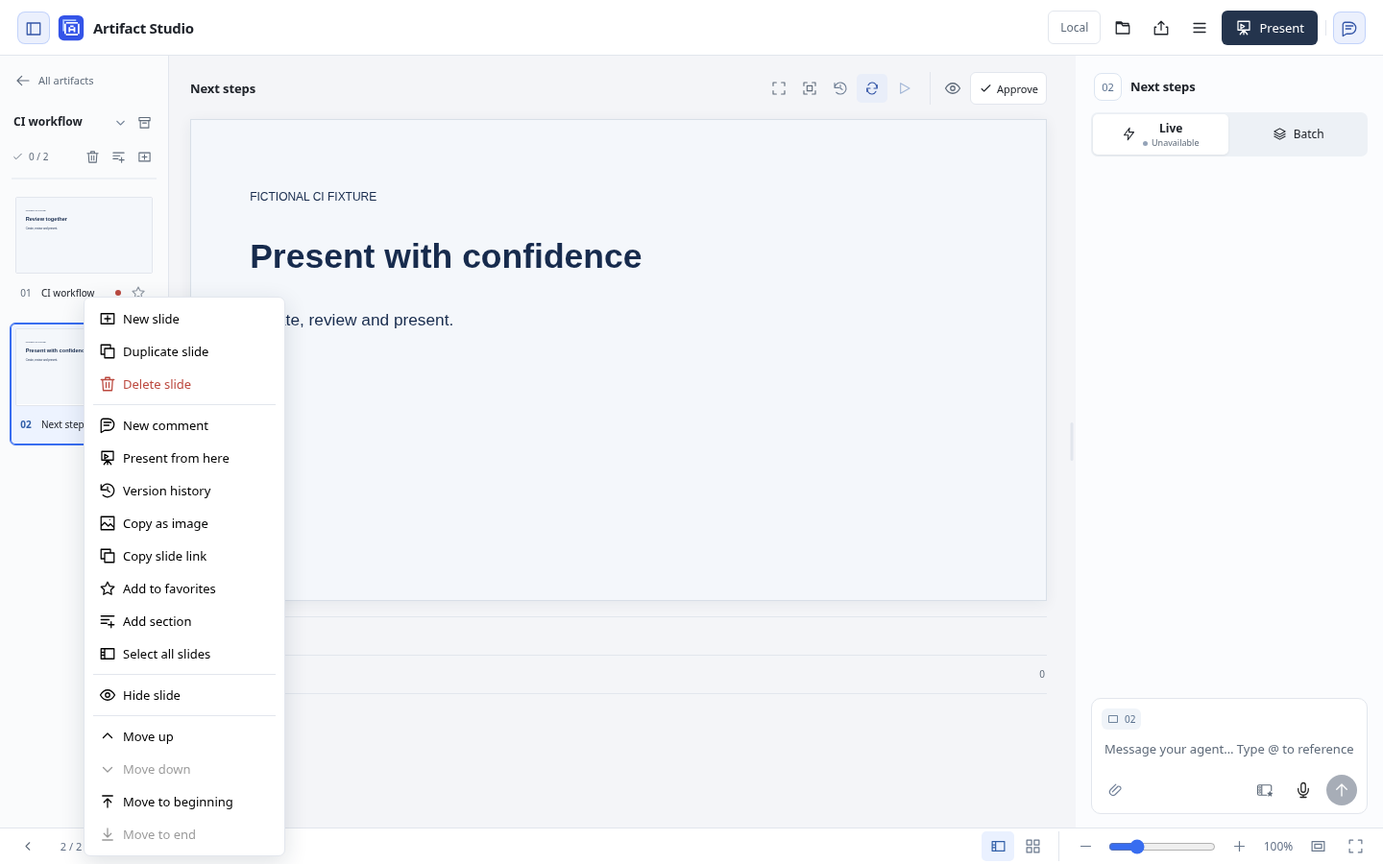
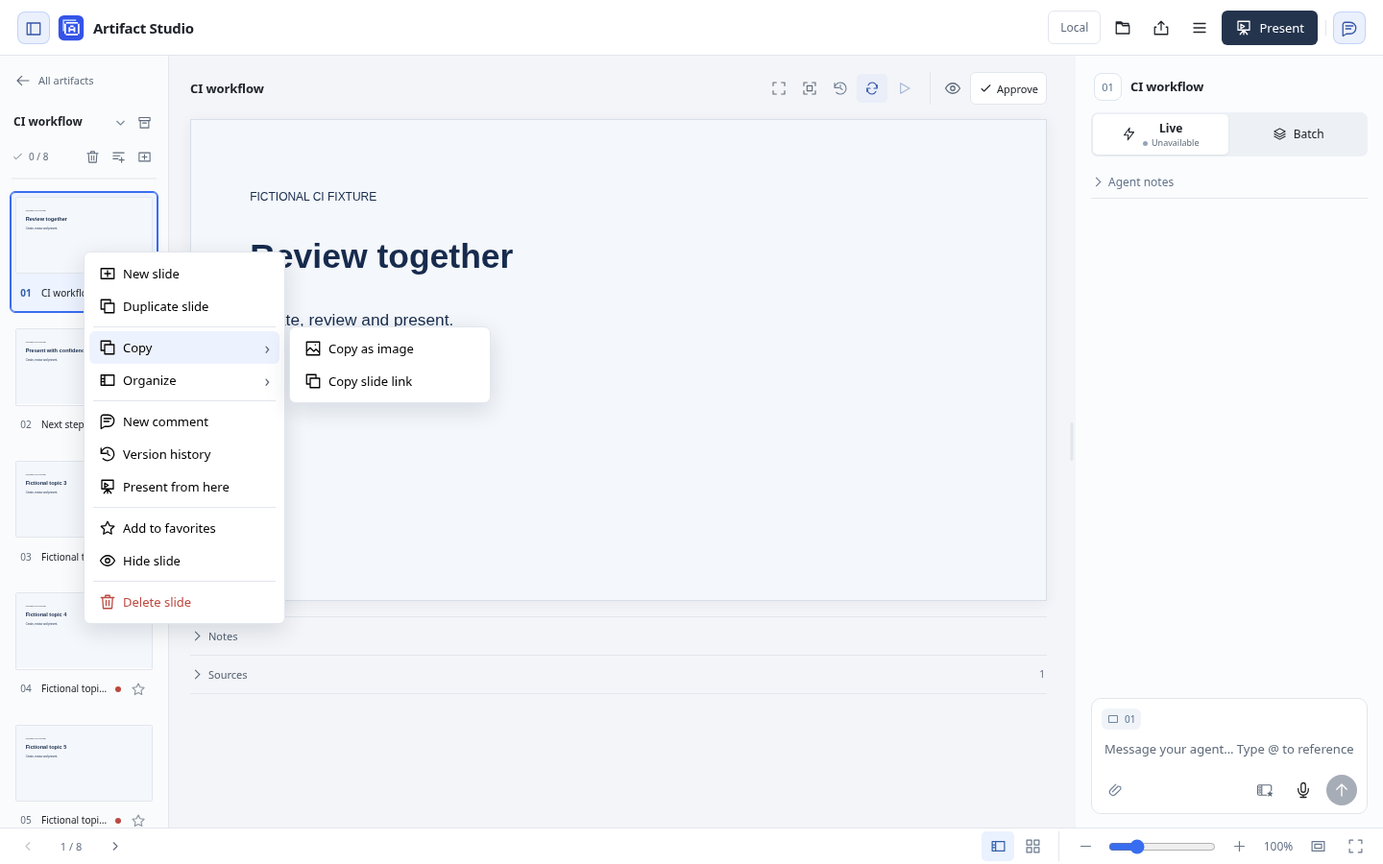
feat(menus): group slide actions into accessible submenus

diff --git a/web/app.js b/web/app.js
@@ -348,7 +348,7 @@
     doc.addEventListener('keydown',event=>{if(document.body.classList.contains('workspace-clean-view') && event.key==='Escape'){event.preventDefault();event.stopImmediatePropagation();workspacePanels.exitView();}},true);
     if(bindEvents){
       doc.addEventListener('keydown',elementKey,true);workspaceMenu?.bindDocument(doc);
-      doc.addEventListener('pointerdown',()=>{elementMenu.close();canvasMenu.close();if($('slide-menu').matches(':popover-open'))$('slide-menu').hidePopover();},true);
+      doc.addEventListener('pointerdown',()=>{elementMenu.close();canvasMenu.close();if($('slide-menu').matches(':popover-open'))slideMenu.close();},true);
       doc.addEventListener('contextmenu',async event=>{
         if(document.body.classList.contains('workspace-clean-view')||window.ElementCommands.typing(event.target)||feedbackSending||elementEditor.isBusy())return;
         const target=event.target.closest('svg')?.classList.contains('icon')?event.target.closest('svg'):event.target;
@@ -640,16 +640,18 @@
     catch(error){toast(error.message,true);}
     finally{visibilityBusy=false;orderEpoch++;updateComposer();renderVisibility();renderRail();$('toggle-slide-hidden').disabled=false;void refresh();}
   }
+  const slideMenu=window.SlideMenu.create({menu:$('slide-menu'),returnFocus:()=>menuSlide?.deckId===deck?.id?$('slides').querySelector(`[data-id="${CSS.escape(menuSlide.id)}"]`):null});
+  for(const control of $('slide-menu').querySelectorAll('[data-slide-submenu]')){const copy=control.dataset.slideSubmenu==='copy';iconButton(control,copy?'copy':'slides',copy?'Copy':'Organize',true);control.insertAdjacentHTML('beforeend','<span class="slide-submenu-arrow" aria-hidden="true">›</span>');}
   async function openSlideMenu(id,point){
     if(visibilityBusy||slideOrder.isBusy()||slideActions.isBusy())return;
-    const menu=$('slide-menu'),button=$('toggle-slide-hidden'),count=slideOrder.selection().length,selection=$('slide-menu-selection');selection.hidden=count<2;selection.innerHTML=svg('slides')+`<span>${count} selected</span>`;selection.setAttribute('aria-label',`${count} slides selected`);menuSlide={deckId:deck.id,id,contentHash:slide().content_hash};const hide=(pendingDeck||deck).slides.some(item=>slideOrder.selection().includes(item.id)&&!item.hidden);iconButton(button,hide?'eye':'eyeOff',`${hide?'Hide':'Unhide'} ${count>1?'selected slides':'slide'}`,true);for(const control of menu.querySelectorAll('[data-slide-action]')){const action=control.dataset.slideAction;iconButton(control,{add:'slideAdd',duplicate:'copy',delete:'trash'}[action],{add:'New slide',duplicate:count>1?'Duplicate slides':'Duplicate slide',delete:count>1?'Delete slides':'Delete slide'}[action],true);control.disabled=action==='delete'?count===(pendingDeck||deck).slides.length:action==='add'?(pendingDeck||deck).slides.length>=100:(pendingDeck||deck).slides.length+count>100;}menu.showPopover();
+    const menu=$('slide-menu'),button=$('toggle-slide-hidden'),count=slideOrder.selection().length,selection=$('slide-menu-selection');selection.hidden=count<2;selection.innerHTML=svg('slides')+`<span>${count} selected</span>`;selection.setAttribute('aria-label',`${count} slides selected`);menuSlide={deckId:deck.id,id,contentHash:slide().content_hash};const hide=(pendingDeck||deck).slides.some(item=>slideOrder.selection().includes(item.id)&&!item.hidden);iconButton(button,hide?'eye':'eyeOff',`${hide?'Hide':'Unhide'} ${count>1?'selected slides':'slide'}`,true);for(const control of menu.querySelectorAll('[data-slide-action]')){const action=control.dataset.slideAction;iconButton(control,{add:'slideAdd',duplicate:'copy',delete:'trash'}[action],{add:'New slide',duplicate:count>1?'Duplicate slides':'Duplicate slide',delete:count>1?'Delete slides':'Delete slide'}[action],true);control.disabled=action==='delete'?count===(pendingDeck||deck).slides.length:action==='add'?(pendingDeck||deck).slides.length>=100:(pendingDeck||deck).slides.length+count>100;}
     for(const control of menu.querySelectorAll('[data-slide-extra]')){const action=control.dataset.slideExtra;iconButton(control,({comment:'chat',present:'present',history:'history',copyimage:'image',copylink:'copy',favorite:'star',section:'sectionAdd',selectall:'slides'})[action],({comment:'New comment',present:'Present from here',history:'Version history',copyimage:'Copy as image',copylink:'Copy slide link',favorite:window.FavoriteSlides.actionLabel(window.FavoriteSlides.has('slide',deck.id,id)),section:'Add section',selectall:'Select all slides'})[action],true);control.disabled=(action==='history'||action==='copyimage')&&count>1||action==='copyimage'&&copyingSlideImage;}
     for(const control of menu.querySelectorAll('[data-slide-move]')){const action=control.dataset.slideMove;iconButton(control,action,{up:'Move up',down:'Move down',first:'Move to beginning',last:'Move to end'}[action],true);control.disabled=!slideOrder.canMove(action);}
-    const anchor=$('slides').querySelector(`[data-id="${CSS.escape(id)}"]`).getBoundingClientRect(),rect=menu.getBoundingClientRect();menu.style.left=`${Math.max(8,Math.min(point?.x??anchor.right-15,innerWidth-rect.width-8))}px`;menu.style.top=`${Math.max(8,Math.min(point?.y??anchor.top+12,innerHeight-rect.height-8))}px`;menu.querySelector('button:not(:disabled)')?.focus();
+    const anchor=$('slides').querySelector(`[data-id="${CSS.escape(id)}"]`).getBoundingClientRect();slideMenu.open({...point,anchor});
   }
   $('slide-menu').addEventListener('click',async event=>{
     const control=event.target.closest('[data-slide-extra]');if(!control||control.disabled||menuSlide?.deckId!==deck?.id)return;
-    const id=menuSlide.id;$('slide-menu').hidePopover();
+    const id=menuSlide.id;slideMenu.close();
     if(control.dataset.slideExtra==='copyimage'){
       if(copyingSlideImage)return;const context=menuSlide;copyingSlideImage=true;toast('Preparing slide image…');
       try{await window.ImageExport.copy(`/api/decks/${encodeURIComponent(context.deckId)}/slides/${encodeURIComponent(context.id)}/image`,{content_hash:context.contentHash});toast('Slide image copied.');}
@@ -675,9 +677,8 @@
   ]});}
   document.addEventListener('contextmenu',event=>{if(event.defaultPrevented||document.body.classList.contains('workspace-clean-view')||window.ElementCommands.typing(event.target))return;const blankRail=event.target.closest('#slides')&&!event.target.closest('[data-id],.section-header');if(blankRail||event.target.closest('#preview-wrap')&&!event.target.closest('button,input,textarea,#selection-box,#element-properties')){event.preventDefault();showCanvasMenu({x:event.clientX,y:event.clientY});}});
   $('hide-slide').addEventListener('click',()=>setHidden(selectedId));
-  $('toggle-slide-hidden').addEventListener('click',()=>{const target=menuSlide;$('slide-menu').hidePopover();if(target?.deckId===deck?.id)void setHidden(target.id,slideOrder.selection());});
-  $('slide-menu').addEventListener('click',event=>{const control=event.target.closest('[data-slide-move],[data-slide-action]');if(!control||control.disabled)return;$('slide-menu').hidePopover();if(control.dataset.slideAction)void slideActions.run(control.dataset.slideAction);else void slideOrder.move(control.dataset.slideMove);});
-  $('slide-menu').addEventListener('keydown',event=>{if(['ArrowDown','ArrowUp','Home','End'].includes(event.key)){event.preventDefault();const buttons=[...$('slide-menu').querySelectorAll('button:not(:disabled)')],index=buttons.indexOf(document.activeElement),next=event.key==='Home'?0:event.key==='End'?buttons.length-1:(index+(event.key==='ArrowDown'?1:-1)+buttons.length)%buttons.length;buttons[next]?.focus();}if(event.key==='Escape'){event.preventDefault();$('slide-menu').hidePopover();if(menuSlide?.deckId===deck?.id)$('slides').querySelector(`[data-id="${CSS.escape(menuSlide.id)}"]`)?.focus();}});
+  $('toggle-slide-hidden').addEventListener('click',()=>{const target=menuSlide;slideMenu.close();if(target?.deckId===deck?.id)void setHidden(target.id,slideOrder.selection());});
+  $('slide-menu').addEventListener('click',event=>{const control=event.target.closest('[data-slide-move],[data-slide-action]');if(!control||control.disabled)return;slideMenu.close();if(control.dataset.slideAction)void slideActions.run(control.dataset.slideAction);else void slideOrder.move(control.dataset.slideMove);});
   /** Choose a slide and restore any draft feedback attached to it. */
   async function choose(id){const request=++selectionEpoch,deckId=deck?.id;if(visibilityBusy||slideActions.isBusy()||slideDesignOptions?.isBusy()||elementAlternatives&&!await elementAlternatives.finish()||!await finishEdits()||request!==selectionEpoch||deck?.id!==deckId||!deck.slides.some(item=>item.id===id))return false;retainDraft();await voice?.stop();if(request!==selectionEpoch||deck?.id!==deckId)return false;void noteAutosave.flush(key());if(pendingDeck){deck=pendingDeck;pendingDeck=null;$('update-banner').hidden=true;}selectedId=id;slideSections?.reveal(id);renderRail();render();if(!sorter.isOpen())void markOpened();$('slides').querySelector('[aria-current="true"]')?.scrollIntoView({block:'nearest'});return true;}
   const slideOrder=window.SlideOrder.create({

diff --git a/web/slide-menu.js b/web/slide-menu.js
@@ -1,0 +1,75 @@
+/* One-level slide submenus, with inline expansion when a flyout cannot fit. */
+((root)=>{
+  'use strict';
+  function create({menu,returnFocus}){
+    const doc=menu.ownerDocument,view=doc.defaultView;
+    const branches=[...menu.querySelectorAll('[data-slide-submenu]')].map(trigger=>({trigger,panel:doc.getElementById(trigger.getAttribute('aria-controls'))}));
+    let active=null,hoverTimer=null,closeTimer=null;
+    const rows=panel=>[...panel.querySelectorAll('button:not(:disabled)')].filter(button=>button.closest('[role="menu"]')===panel&&button.getClientRects().length);
+    const clearTimers=()=>{view.clearTimeout(hoverTimer);view.clearTimeout(closeTimer);};
+    function closeBranch(focus=false){
+      clearTimers();if(!active)return;
+      const {trigger,panel}=active;active=null;
+      if(panel.matches(':popover-open'))panel.hidePopover();
+      panel.hidden=true;panel.classList.remove('is-inline');panel.setAttribute('popover','manual');trigger.setAttribute('aria-expanded','false');
+      if(focus){trigger.focus({preventScroll:true});trigger.scrollIntoView({block:'nearest'});}
+    }
+    function clamp(x,y){
+      menu.style.left=`${Math.max(8,Math.min(x,view.innerWidth-menu.offsetWidth-8))}px`;
+      menu.style.top=`${Math.max(8,Math.min(y,view.innerHeight-menu.offsetHeight-8))}px`;
+    }
+    function canFlyOut(){const rect=menu.getBoundingClientRect();return Math.max(rect.left-8,view.innerWidth-rect.right-8)>=rect.width+4;}
+    function showBranch(branch,focus=false){
+      clearTimers();if(branch.trigger.disabled||!menu.matches(':popover-open'))return;
+      if(active!==branch){
+        closeBranch();active=branch;
+        const {trigger,panel}=branch,rect=menu.getBoundingClientRect(),row=trigger.getBoundingClientRect();
+        panel.hidden=false;
+        if(canFlyOut()){
+          panel.showPopover({source:trigger});
+          const left=rect.right+panel.offsetWidth+4<=view.innerWidth-8?rect.right+4:rect.left-panel.offsetWidth-4;
+          panel.style.left=`${Math.max(8,Math.min(left,view.innerWidth-panel.offsetWidth-8))}px`;
+          panel.style.top=`${Math.max(8,Math.min(row.top-5,view.innerHeight-panel.offsetHeight-8))}px`;
+        }else{
+          panel.removeAttribute('popover');panel.classList.add('is-inline');clamp(rect.left,rect.top);
+        }
+        trigger.setAttribute('aria-expanded','true');
+      }
+      if(focus){rows(branch.panel)[0]?.focus();doc.activeElement?.scrollIntoView({block:'nearest'});}
+    }
+    function close(focus=false){closeBranch();if(menu.matches(':popover-open'))menu.hidePopover();if(focus)returnFocus()?.focus({preventScroll:true});}
+    function open({x,y,anchor}){
+      close();menu.showPopover();clamp(x??anchor.right-15,y??anchor.top+12);rows(menu)[0]?.focus();
+    }
+    for(const branch of branches){
+      const {trigger,panel}=branch;
+      trigger.addEventListener('click',event=>{event.preventDefault();if(active===branch&&branch.panel.classList.contains('is-inline'))closeBranch(true);else showBranch(branch,true);});
+      trigger.addEventListener('pointerenter',event=>{clearTimers();if(event.pointerType!=='touch'&&canFlyOut())hoverTimer=view.setTimeout(()=>showBranch(branch),120);});
+      panel.addEventListener('pointerenter',clearTimers);
+    }
+    menu.addEventListener('pointerover',event=>{
+      const button=event.target.closest('button');
+      if(active&&!active.panel.classList.contains('is-inline')&&button?.closest('[role="menu"]')===menu&&!button.hasAttribute('data-slide-submenu'))closeBranch();
+    });
+    menu.addEventListener('pointerenter',()=>view.clearTimeout(closeTimer));
+    menu.addEventListener('pointerleave',()=>{if(active&&!active.panel.classList.contains('is-inline'))closeTimer=view.setTimeout(()=>closeBranch(),220);});
+    menu.addEventListener('beforetoggle',event=>{if(event.target===menu&&event.newState==='closed')closeBranch();});
+    menu.addEventListener('keydown',event=>{
+      if(event.defaultPrevented)return;
+      const level=event.target.closest('[role="menu"]'),branch=branches.find(item=>item.trigger===doc.activeElement);
+      if(event.key==='ArrowRight'&&branch){event.preventDefault();event.stopPropagation();showBranch(branch,true);return;}
+      if(event.key==='ArrowLeft'&&active){event.preventDefault();event.stopPropagation();closeBranch(true);return;}
+      if(event.key==='Escape'){event.preventDefault();event.stopPropagation();if(active)closeBranch(true);else close(true);return;}
+      if(event.key==='Tab'){event.preventDefault();event.stopPropagation();close(true);return;}
+      if(!['ArrowDown','ArrowUp','Home','End'].includes(event.key))return;
+      event.preventDefault();event.stopPropagation();
+      if(level===menu&&active)closeBranch();
+      const buttons=rows(level),index=buttons.indexOf(doc.activeElement),next=event.key==='Home'?0:event.key==='End'?buttons.length-1:(index+(event.key==='ArrowDown'?1:-1)+buttons.length)%buttons.length;
+      buttons[next]?.focus();
+    });
+    view.addEventListener('resize',()=>close());
+    doc.addEventListener('scroll',event=>{if(menu.contains(event.target)){if(event.target===menu&&active&&!active.panel.classList.contains('is-inline'))closeBranch();}else if(menu.matches(':popover-open'))close();},true);
+    return {open,close};
+  }
+  root.SlideMenu={create};
+})(window);

diff --git a/web/index.html b/web/index.html
@@ -53,6 +53,7 @@
   <script src="/web/element-properties.js" defer></script>
   <script src="/web/workspace-panels.js" defer></script>
   <script src="/web/slide-order.js" defer></script>
+  <script src="/web/slide-menu.js" defer></script>
   <script src="/web/slide-sections.js" defer></script>
   <script src="/web/slide-sorter.js" defer></script>
   <script src="/web/slide-actions.js" defer></script>
@@ -231,23 +232,35 @@
   <div id="slide-menu-selection" class="slide-menu-selection" hidden></div>
   <button data-slide-action="add" type="button" role="menuitem"></button>
   <button data-slide-action="duplicate" type="button" role="menuitem"></button>
-  <button data-slide-action="delete" type="button" role="menuitem"></button>
+  <hr>
+  <div class="slide-menu-branch">
+    <button type="button" role="menuitem" data-slide-submenu="copy" aria-label="Copy" aria-haspopup="menu" aria-expanded="false" aria-controls="slide-copy-menu">Copy</button>
+    <div id="slide-copy-menu" class="slide-menu slide-submenu" popover="manual" role="menu" aria-label="Copy slide" hidden>
+      <button data-slide-extra="copyimage" type="button" role="menuitem"></button>
+      <button data-slide-extra="copylink" type="button" role="menuitem"></button>
+    </div>
+  </div>
+  <div class="slide-menu-branch">
+    <button type="button" role="menuitem" data-slide-submenu="organize" aria-label="Organize" aria-haspopup="menu" aria-expanded="false" aria-controls="slide-organize-menu">Organize</button>
+    <div id="slide-organize-menu" class="slide-menu slide-submenu" popover="manual" role="menu" aria-label="Organize slides" hidden>
+      <button data-slide-move="up" type="button" role="menuitem"></button>
+      <button data-slide-move="down" type="button" role="menuitem"></button>
+      <button data-slide-move="first" type="button" role="menuitem"></button>
+      <button data-slide-move="last" type="button" role="menuitem"></button>
+      <hr>
+      <button data-slide-extra="section" type="button" role="menuitem"></button>
+      <button data-slide-extra="selectall" type="button" role="menuitem"></button>
+    </div>
+  </div>
   <hr>
   <button data-slide-extra="comment" type="button" role="menuitem"></button>
-  <button data-slide-extra="present" type="button" role="menuitem"></button>
   <button data-slide-extra="history" type="button" role="menuitem"></button>
-  <button data-slide-extra="copyimage" type="button" role="menuitem"></button>
-  <button data-slide-extra="copylink" type="button" role="menuitem"></button>
-  <button data-slide-extra="favorite" type="button" role="menuitem"></button>
-  <button data-slide-extra="section" type="button" role="menuitem"></button>
-  <button data-slide-extra="selectall" type="button" role="menuitem"></button>
+  <button data-slide-extra="present" type="button" role="menuitem"></button>
   <hr>
+  <button data-slide-extra="favorite" type="button" role="menuitem"></button>
   <button id="toggle-slide-hidden" type="button" role="menuitem"></button>
   <hr>
-  <button data-slide-move="up" type="button" role="menuitem"></button>
-  <button data-slide-move="down" type="button" role="menuitem"></button>
-  <button data-slide-move="first" type="button" role="menuitem"></button>
-  <button data-slide-move="last" type="button" role="menuitem"></button>
+  <button data-slide-action="delete" type="button" role="menuitem"></button>
 </div>
 <div id="object-panel" popover></div>
 <div id="element-align-menu" class="element-align-menu" popover role="menu" aria-label="Align to slide">

diff --git a/web/style.css b/web/style.css
@@ -117,6 +117,7 @@ a{color:inherit}
 .slide-menu hr{border:0;border-top:1px solid var(--line);margin:4px}
 .slide-menu-selection{display:flex;align-items:center;gap:7px;color:var(--subtle);font-size:12px;padding:5px 10px}
 .slide-menu-selection[hidden]{display:none}
+.slide-submenu[hidden]{display:none!important}.slide-submenu{visibility:visible;max-width:calc(100vw - 16px)}.slide-submenu.is-inline{position:static;inset:auto!important;margin:2px 4px 5px 10px;width:calc(100% - 14px);padding:2px 0 2px 4px;border:0;border-left:1px solid var(--line);border-radius:0;box-shadow:none;background:transparent}.slide-submenu-arrow{margin-left:auto;font-size:18px;line-height:1;color:var(--subtle)}.slide-menu-branch:has(>.is-inline)>button .slide-submenu-arrow{transform:rotate(90deg)}.slide-menu button[aria-expanded=true]{background:var(--selected,#edf2ff)}
 #project-dialog{width:min(470px,calc(100vw - 32px));padding:24px;border-radius:14px}
 #project-dialog>header{margin-bottom:5px}
 #project-dialog .project-context{margin:0 40px 22px 0;font-size:12px;line-height:1.5;color:var(--subtle);display:-webkit-box;-webkit-line-clamp:2;-webkit-box-orient:vertical;overflow:hidden;overflow-wrap:anywhere}

diff --git a/tests/integration/test_slide_context_menus.py b/tests/integration/test_slide_context_menus.py
@@ -94,6 +94,7 @@ def test_thumbnail_comment_history_and_selection_target_the_clicked_slide(
     page.get_by_role("button", name="Close version history", exact=True).click()
     expect(feedback).to_have_value("Private draft about the second slide")
     thumbnail.click(button="right")
+    menu.get_by_role("menuitem", name="Organize", exact=True).click()
     menu.get_by_role("menuitem", name="Select all slides", exact=True).click()
     expect(page.locator('#slides [data-id][aria-pressed="true"]')).to_have_count(2)
     assert live_app.store.comments(DECK_ID) == []
@@ -136,8 +137,10 @@ def test_thumbnail_copies_the_invoked_slide_as_a_real_png(
             return response;
         };
     }""")
+    menu.get_by_role("menuitem", name="Copy", exact=True).click()
     menu.get_by_role("menuitem", name="Copy as image", exact=True).click()
     page.locator('#slides [data-id="cover"]').click(button="right")
+    menu.get_by_role("menuitem", name="Copy", exact=True).click()
     expect(menu.get_by_role("menuitem", name="Copy as image", exact=True)).to_be_disabled()
     page.evaluate("window.releaseSlideImage()")
     expect(page.locator("#toast")).to_have_text("Slide image copied.", timeout=30_000)
@@ -154,8 +157,10 @@ def test_thumbnail_copies_the_invoked_slide_as_a_real_png(
     page.locator('#slides [data-id="cover"]').click()
     expect(feedback).to_have_value("Keep this unsent draft on the first slide.")
     page.locator('#slides [data-id="cover"]').click(button="right")
+    menu.get_by_role("menuitem", name="Organize", exact=True).click()
     menu.get_by_role("menuitem", name="Select all slides", exact=True).click()
     page.locator('#slides [data-id="cover"]').click(button="right")
+    menu.get_by_role("menuitem", name="Copy", exact=True).click()
     expect(menu.get_by_role("menuitem", name="Copy as image", exact=True)).to_be_disabled()
     assert live_app.store.read(DECK_ID) == expected
     assert live_app.store.comments(DECK_ID) == []
@@ -176,7 +181,7 @@ def test_thumbnail_menu_fits_the_viewport_and_reaches_its_last_action(
     assert bounds["x"] >= 0 and bounds["x"] + bounds["width"] <= width
     assert bounds["y"] >= 0 and bounds["y"] + bounds["height"] <= height
     page.keyboard.press("End")
-    last = menu.get_by_role("menuitem", name="Move to end", exact=True)
+    last = menu.get_by_role("menuitem", name="Delete slide", exact=True)
     expect(last).to_be_focused()
     last_bounds = last.bounding_box()
     assert last_bounds is not None
@@ -185,6 +190,122 @@ def test_thumbnail_menu_fits_the_viewport_and_reaches_its_last_action(
     _ = page.screenshot(path=str(artifacts / "slide-menu-in-viewport.png"))
     page.keyboard.press("Escape")
     expect(page.locator('#slides [data-id="cover"]')).to_be_focused()
+
+
+def test_slide_submenus_keep_keyboard_navigation_in_the_current_level(
+    page: Page, live_app: RunningApp
+) -> None:
+    """Open children with Right, return with Left/Escape and reach the separate Delete action."""
+    open_editor(page, live_app)
+    thumbnail = page.locator('#slides [data-id="cover"]')
+    thumbnail.focus()
+    page.keyboard.press("Shift+F10")
+    menu = page.get_by_role("menu", name="Slide options", exact=True)
+    page.keyboard.press("ArrowDown")
+    page.keyboard.press("ArrowDown")
+    copy = menu.get_by_role("menuitem", name="Copy", exact=True)
+    expect(copy).to_be_focused()
+    page.keyboard.press("ArrowRight")
+    expect(menu.get_by_role("menuitem", name="Copy as image", exact=True)).to_be_focused()
+    page.keyboard.press("End")
+    expect(menu.get_by_role("menuitem", name="Copy slide link", exact=True)).to_be_focused()
+    page.keyboard.press("ArrowLeft")
+    expect(copy).to_be_focused()
+    expect(copy).to_have_attribute("aria-expanded", "false")
+    page.keyboard.press("ArrowDown")
+    page.keyboard.press("ArrowRight")
+    expect(menu.get_by_role("menuitem", name="Move down", exact=True)).to_be_focused()
+    page.keyboard.press("Escape")
+    expect(menu.get_by_role("menuitem", name="Organize", exact=True)).to_be_focused()
+    page.keyboard.press("End")
+    expect(menu.get_by_role("menuitem", name="Delete slide", exact=True)).to_be_focused()
+    page.keyboard.press("Escape")
+    expect(menu).not_to_be_visible()
+    expect(thumbnail).to_be_focused()
+
+
+def test_slide_submenu_hover_and_copy_link_close_every_panel(
+    page: Page, live_app: RunningApp
+) -> None:
+    """Follow the actual pointer into a flyout and copy the invoked slide's link."""
+    page.context.grant_permissions(["clipboard-read", "clipboard-write"], origin=live_app.url)
+    open_editor(page, live_app)
+    page.locator('#slides [data-id="next"]').click(button="right")
+    menu = page.get_by_role("menu", name="Slide options", exact=True)
+    copy = menu.get_by_role("menuitem", name="Copy", exact=True)
+    copy.hover()
+    child = menu.get_by_role("menu", name="Copy slide", exact=True)
+    expect(child).to_be_visible()
+    copy.click()
+    expect(child).to_be_visible()
+    child.get_by_role("menuitem", name="Copy slide link", exact=True).hover()
+    expect(child).to_be_visible()
+    child.get_by_role("menuitem", name="Copy slide link", exact=True).click()
+    expect(page.locator("#toast")).to_have_text("Slide link copied.")
+    assert page.evaluate("navigator.clipboard.readText()") == f"{live_app.url}/?deck={DECK_ID}#next"
+    expect(menu).not_to_be_visible()
+    expect(child).not_to_be_visible()
+    page.locator('#slides [data-id="next"]').click(button="right")
+    copy.hover()
+    expect(child).to_be_visible()
+    menu.get_by_role("menuitem", name="New slide", exact=True).hover()
+    expect(child).not_to_be_visible()
+    page.mouse.click(1100, 100)
+    expect(menu).not_to_be_visible()
+    expect(child).not_to_be_visible()
+
+
+def test_organize_move_uses_the_invoked_slide_and_preserves_drafts(
+    page: Page, live_app: RunningApp
+) -> None:
+    """A command in the flyout reaches the existing reorder controller with its original context."""
+    open_editor(page, live_app)
+    feedback = page.get_by_role("textbox", name="Your feedback", exact=True)
+    feedback.fill("Keep the first slide's unsent draft.")
+    page.locator('#slides [data-id="next"]').click(button="right")
+    menu = page.get_by_role("menu", name="Slide options", exact=True)
+    menu.get_by_role("menuitem", name="Organize", exact=True).click()
+    menu.get_by_role("menuitem", name="Move to beginning", exact=True).click()
+    expect(page.locator("#slides [data-id]").first).to_have_attribute("data-id", "next")
+    assert live_app.store.read(DECK_ID).slides[0].id == "next"
+    page.locator('#slides [data-id="cover"]').click()
+    expect(feedback).to_have_value("Keep the first slide's unsent draft.")
+    assert live_app.store.locate(live_app.store.read(DECK_ID), "cover").notes == PRIVATE_NOTE
+    assert live_app.store.comments(DECK_ID) == []
+
+
+@pytest.mark.parametrize("width,height", [(390, 720), (800, 400)])
+def test_organize_submenu_fits_short_and_narrow_sorter_windows(
+    page: Page, live_app: RunningApp, artifacts: Path, width: int, height: int
+) -> None:
+    """Expand inline when necessary and scroll focused submenu actions into the menu."""
+    page.set_viewport_size({"width": width, "height": height})
+    open_editor(page, live_app)
+    page.get_by_role("button", name="Slide sorter", exact=True).click()
+    thumbnail = page.locator('#slides [data-id="cover"]')
+    bounds = thumbnail.bounding_box()
+    assert bounds is not None
+    page.mouse.click(
+        bounds["x"] + bounds["width"] / 2, bounds["y"] + bounds["height"] / 2, button="right"
+    )
+    menu = page.get_by_role("menu", name="Slide options", exact=True)
+    menu.get_by_role("menuitem", name="Organize", exact=True).click()
+    child = menu.get_by_role("menu", name="Organize slides", exact=True)
+    expect(child).to_be_visible()
+    if width == 390:
+        expect(child).to_have_class(re.compile(r"\bis-inline\b"))
+    bounds = child.bounding_box()
+    assert bounds is not None
+    assert bounds["x"] >= 0 and bounds["x"] + bounds["width"] <= width
+    page.keyboard.press("End")
+    last = child.get_by_role("menuitem", name="Select all slides", exact=True)
+    expect(last).to_be_focused()
+    expect(last).to_be_in_viewport()
+    _ = page.screenshot(path=str(artifacts / "organized-slide-submenu.png"))
+    last.click()
+    expect(page.locator('#slides [data-id][aria-pressed="true"]')).to_have_count(2)
+    expect(menu).not_to_be_visible()
+    expect(child).not_to_be_visible()
 
 
 def test_user_text_fields_keep_native_context_menus(page: Page, live_app: RunningApp) -> None:

diff --git a/docs/GETTING-STARTED.md b/docs/GETTING-STARTED.md
@@ -115,9 +115,13 @@ For multiple selected slide objects, the menu offers **Delete selection**, align
 
 Drag from empty space on a slide, or in an HTML artifact with **Select** enabled, to enclose multiple objects. Hold **Shift, Cmd or Ctrl** to add objects; **Escape** cancels the drag. Right-click selected objects for **Save as image…** to download a transparent PNG. Right-click an image for its original file as well. Export uses the displayed version and local edit preview without submitting feedback or saving edits. Local images and canvas pixels are supported; unavailable external resources and nested frames are excluded. PNG export requires the local Chromium renderer used for visual review.
 
-Right-click one slide in the sidebar or slide sorter and choose **Copy as image** to copy its saved artwork as a full-resolution PNG. Paste it into another app, including PowerPoint. Notes, feedback and editor controls are excluded, and unsent drafts remain intact. This requires the Chromium renderer and browser clipboard access on HTTPS or localhost; if the slide changed, refresh before copying again.
+Right-click one slide in the sidebar or slide sorter and choose **Copy → Copy as image** to copy its saved artwork as a full-resolution PNG. **Copy slide link** is in the same submenu. **Organize** groups movement, sections and selection; review, presentation and visibility commands remain directly accessible, with Delete separated at the bottom. Paste copied artwork into another app, including PowerPoint. Notes, feedback and editor controls are excluded, and unsent drafts remain intact. This requires the Chromium renderer and browser clipboard access on HTTPS or localhost; if the slide changed, refresh before copying again.
 
 ![Copy a slide as an image from its sidebar menu](assets/slide-copy-image.png)
+
+![Organize slide movement, sections and selection in one submenu](assets/slide-organize-menu.png)
+
+Submenus expand inline in narrow windows. [See the narrow-window menu](assets/slide-menu-narrow.png).
 
 For PDF exports, uncheck **Include hidden slides** to export only visible slides. This option is available in **Share → PDF** (including presentation PDFs inside project ZIPs) and in the PDF print preview before **Save as PDF**. It starts checked to preserve existing exports. Excluding every slide shows a clear empty-state message instead of exporting blank pages. Interactive HTML exports retain hidden slides for deliberate navigation.
 

diff --git a/docs/KEYBOARD-CONTROLS.md b/docs/KEYBOARD-CONTROLS.md
@@ -47,6 +47,8 @@ Focus a slide thumbnail first. The sorter is the grid reached through its icon o
 
 With the editor canvas focused and no object edit active, ←/→ switches slides. ⌘/Ctrl + mouse wheel changes zoom. Undo for adding/duplicating slides is not available; restoring a deletion does not create a redo entry.
 
+In a slide context menu, **Copy** contains image/link copying and **Organize** contains movement, sections and selection. **→** opens a submenu; **←** returns to its parent. **↑/↓** and **Home/End** stay within the current level. **Escape** closes a submenu first, then the main menu and restores thumbnail focus. Submenus expand inline when there is not enough room for a flyout.
+
 Focus a **section header** for ←/→ to collapse/expand it, **F2** to rename it, or **Shift+F10 / Menu** for section actions.
 
 ## Element keyboard controls
